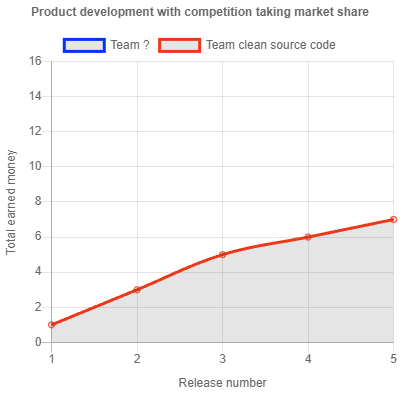
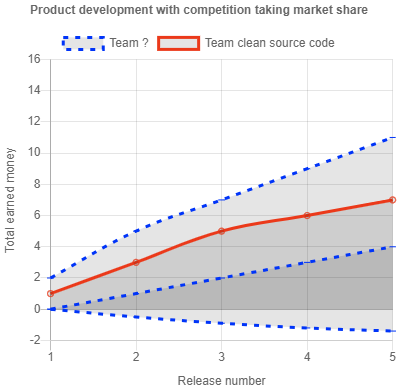
add dotted lines for unknown other team

diff --git a/Seriuos Bad source code Again Blog/thoughtExperimentCharts/src/thrdThoughtExperiment.js b/Seriuos Bad source code Again Blog/thoughtExperimentCharts/src/thrdThoughtExperiment.js
@@ -8,6 +8,20 @@ export const thrdThoughtExperiment = {
       {
         label: 'Team ?',
         borderColor: "rgb(0,0,255)",
+        data: releaseValue2ChartData([0, 1, 1, 1, 1]),
+        borderDash: [5, 7],
+        pointStyle: "line"
+      },
+      {
+        borderColor: "rgb(0,0,255)",
+        data: releaseValue2ChartData([2, 3, 2, 2, 2]),
+        borderDash: [5, 7],
+        pointStyle: "line"
+      },{
+        borderColor: "rgb(0,0,255)",
+        data: releaseValue2ChartData([0, -0.5, -0.4, -0.3, -0.2]),
+        borderDash: [5, 7],
+        pointStyle: "line"
       },
       {
         label: 'Team clean source code',
@@ -20,6 +34,11 @@ export const thrdThoughtExperiment = {
     title: { display: true, text: "Product development with competition taking market share" },
     responsive: false,
     animation: false,
+    legend: {
+      labels: {
+        filter: (legendItem) => legendItem.text !== undefined 
+      }
+    }, 
     scales: {
         xAxes: [{
           scaleLabel: {
@@ -32,7 +51,7 @@ export const thrdThoughtExperiment = {
             display: true,
             labelString: "Total earned money"
           },
-          ticks: { min: 0, max: 16  }
+          ticks: { min: -2, max: 16  }
         }],
     },
     elements: {
